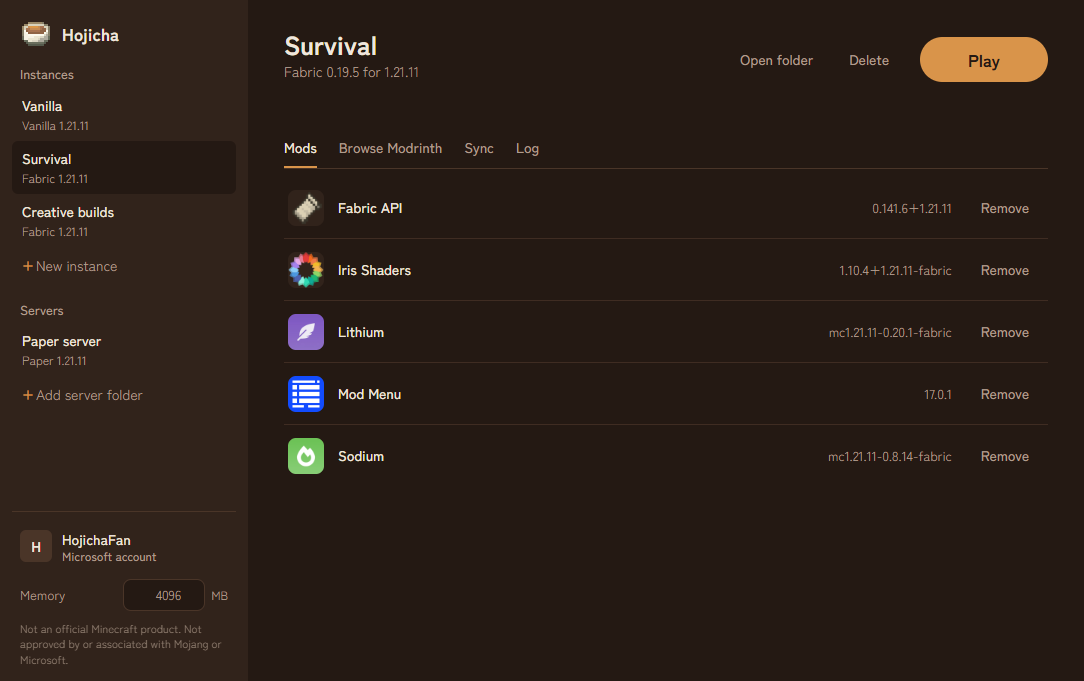
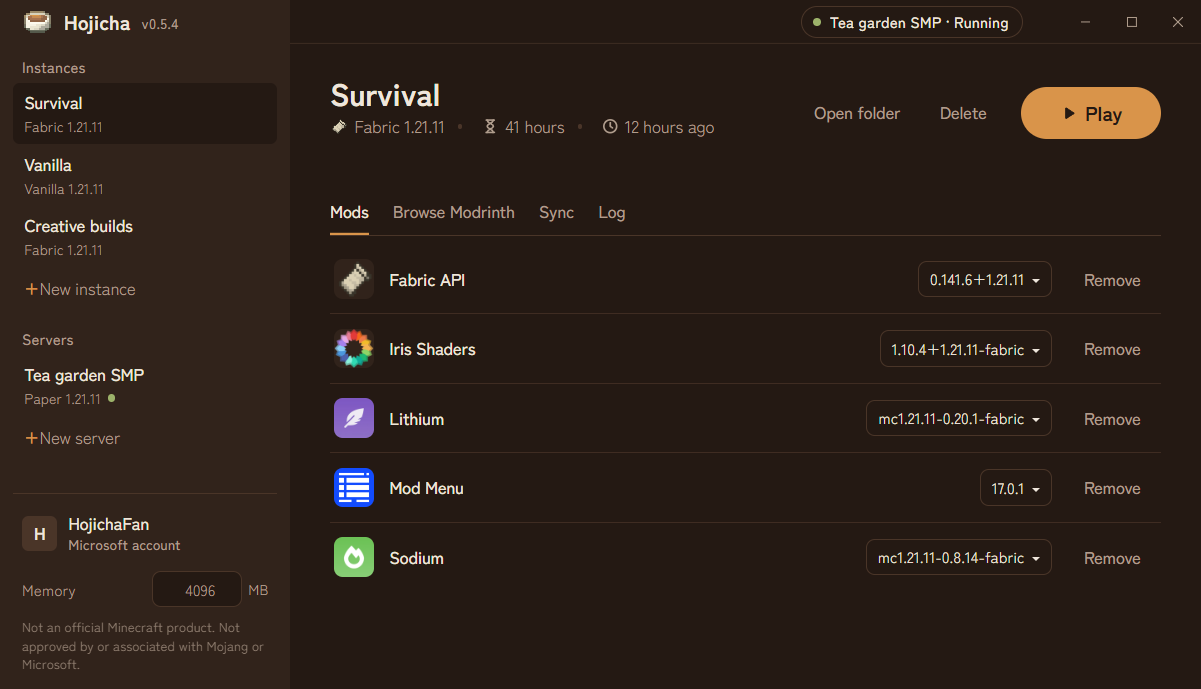
Update the README and screenshots for 0.5.4
New screenshots of the current design (rendered from the real UI with sample
data), features for servers, online play and updates, and a complete list of
the services the launcher talks to: the old privacy line no longer covered
Fabric, PaperMC, PurpurMC, playit.gg and GitHub.

diff --git a/README.md b/README.md
@@ -5,77 +5,100 @@
 <h1 align="center">Hojicha Launcher</h1>
 
 <p align="center">
-  A small, open-source launcher for Minecraft: Java Edition with separate instances,
-  built-in Modrinth downloads, instance syncing and one-click local servers.
+  A small, open-source launcher for Minecraft: Java Edition. Separate instances, Modrinth downloads,
+  instance syncing, and local servers your friends can join without port forwarding.
 </p>
 
 > **NOT AN OFFICIAL MINECRAFT PRODUCT. NOT APPROVED BY OR ASSOCIATED WITH MOJANG OR MICROSOFT.**
 
-![Hojicha Launcher showing a Fabric instance with its mods](docs/screenshot-mods.png)
+![Hojicha Launcher showing a Fabric instance with its mods, play time and last played](docs/screenshot-mods.png)
 
 ## Features
 
-- **Instances**: separate game folders, vanilla or Fabric, any release or snapshot. Hojicha downloads the
-  game, libraries, assets and the matching Java runtime from Mojang itself; game files are never redistributed.
-- **Modrinth browser**: search mods, resource packs and shaders filtered to the instance's version and
-  loader. One click installs the newest compatible version plus its required dependencies.
-- **Instance syncing**: share resource packs, shader packs, screenshots, options/keybinds and the server
-  list between instances.
-- **Local servers**: create a Paper, Purpur or Fabric server in a couple of clicks, or add an existing server
-  folder, and use **Start & Join** to start it and jump straight in. Turn on **online play** to let friends join
-  over the internet through playit.gg, without port forwarding.
-- **Microsoft accounts**: sign in with the official Microsoft device-code flow.
+- **Instances**: separate game folders, vanilla or Fabric, any release or snapshot, each showing its time played
+  and when you last played it. Hojicha downloads the game, libraries, assets and the matching Java runtime from
+  Mojang itself; game files are never redistributed.
+- **Modrinth browser**: search mods, resource packs and shaders filtered to the instance's version and loader.
+  One click installs the newest compatible version plus its required dependencies, and any installed mod can be
+  switched to another version.
+- **Instance syncing**: share resource packs, shader packs, screenshots, options/keybinds and the server list
+  between instances.
+- **Local servers**: create a Paper, Purpur or Fabric server in a couple of clicks, or add a server folder you
+  already have, and use **Start and join** to start it and jump straight in.
+- **Online play**: let friends join a local server over the internet through [playit.gg](https://playit.gg),
+  without port forwarding or changing anything on your PC or router. Public servers always check Microsoft
+  accounts and use a whitelist.
+- **Microsoft accounts**: sign in with Microsoft's official device-code flow.
+- **Updates in the launcher**: new versions download in the background and install with one click.
 
-| Browse Modrinth | Local servers | Accounts |
-| --- | --- | --- |
-| ![Modrinth browser](docs/screenshot-browse.png) | ![Local server view](docs/screenshot-server.png) | ![Accounts dialog](docs/screenshot-accounts.png) |
+| Browse Modrinth | Online play |
+| --- | --- |
+| ![Modrinth browser with install buttons](docs/screenshot-browse.png) | ![A running server with its address and whitelist](docs/screenshot-server.png) |
+| **New server** | **Accounts** |
+| ![New server dialog with Paper, Purpur and Fabric](docs/screenshot-new-server.png) | ![Accounts dialog](docs/screenshot-accounts.png) |
 
 ## Accounts and privacy
 
-- **Sign-in happens on Microsoft's website.** Hojicha shows a code; you enter it at microsoft.com/link and
-  sign in there. Hojicha never sees or stores your password.
+- **Sign-in happens on Microsoft's website.** Hojicha shows a code; you enter it at microsoft.com/link and sign in
+  there. Hojicha never sees or stores your password.
 - **Ownership is verified.** After signing in, Hojicha exchanges the Microsoft token through Xbox Live for a
   Minecraft session and checks that the account owns Minecraft: Java Edition.
 - **Tokens stay on your PC.** They are stored in `config\accounts.json` in the launcher folder, encrypted with
-  Windows' user-level encryption (DPAPI via Electron `safeStorage`). Nothing is sent anywhere except Microsoft,
-  Xbox Live, Mojang and Modrinth.
-- **Offline accounts require a verified owner.** Offline accounts (for local and offline-mode servers) can only
-  be added and used while a Microsoft account that owns the game is signed in.
+  Windows' user-level encryption (DPAPI via Electron `safeStorage`).
+- **Offline accounts require a verified owner.** Offline accounts can only be added and used while a Microsoft
+  account that owns the game is signed in. They can join offline-mode servers on your own PC, never a server that's
+  open to the internet: online play always runs the server in online mode.
+- **No analytics, no telemetry.** Nothing is ever sent to the launcher's developer. Hojicha only talks to the
+  services it needs, and only when it needs them:
+
+| Service | What for |
+| --- | --- |
+| Microsoft, Xbox Live, Minecraft services | Signing in, checking ownership, your skin |
+| Mojang | Game versions, libraries, assets and Java runtimes |
+| Modrinth | Searching and downloading mods, resource packs and shaders |
+| Fabric | Fabric loader versions, and Fabric servers |
+| PaperMC, PurpurMC | The server jar, only when you create a Paper or Purpur server |
+| playit.gg | Only if you set up online play: linking your account, and relaying players to your server |
+| GitHub | Checking for launcher updates and downloading them, and playit's agent program |
 
 ## Local servers
 
 **New server** downloads the newest build of Paper, Purpur or Fabric for the Minecraft version you pick into
-`servers\<name>` in the launcher folder, once you agree to the Minecraft EULA. **Add folder**, in the same dialog,
-uses a server you already have, wherever it is.
+`servers\<name>` in the launcher folder, once you agree to the [Minecraft EULA](https://aka.ms/MinecraftEULA).
+**Add folder**, in the same dialog, uses a server you already have, wherever it is.
 
-Hojicha starts a local server with the Java version that matches it, listening on `127.0.0.1` only, so nobody
-else can connect, in offline mode so offline accounts can join. It writes those settings into `server.properties`,
+Hojicha starts a local server with the Java version that matches it, listening on `127.0.0.1` only, so nobody else
+can connect, in offline mode so your offline accounts can join. It writes those settings into `server.properties`,
 records your original values and puts them back when the server stops (or the next time it opens, if it was closed
 while the server ran), so your own start script keeps working. The selected account is made operator when the
 server starts.
 
 ### Online play
 
-The **Online play** tab lets friends join over the internet without port forwarding, through
-[playit.gg](https://playit.gg). **Set up online play** links a free playit.gg account once: you approve Hojicha
-Launcher in your browser and the launcher keeps the key, encrypted, in `config\playit.json`. With
-**Joinable online** on, starting the server also starts playit's own agent (the signed `playitd.exe`, pinned and
-checked by SHA-256, kept in `meta\playit`) as an ordinary program next to it: no service, no install, no admin
-rights. It stops with the server. The first start creates a Minecraft tunnel in your playit.gg account.
+The **Online play** tab on a server lets friends join over the internet, through [playit.gg](https://playit.gg):
 
-While it's public the server runs in **online mode with an enforced whitelist**: only Microsoft accounts on the
-whitelist get in, so offline accounts can't join that server. Your selected account is always whitelisted.
+1. **Set up online play** links a free playit.gg account once. You approve Hojicha Launcher in your browser, and the
+   launcher keeps the key, encrypted, in `config\playit.json`. Each install links its own account; nothing is shared
+   between installs.
+2. Switch on **Joinable online** and start the server. Hojicha starts playit's own agent (the signed `playitd.exe`,
+   pinned to one version and checked by SHA-256, kept in `meta\playit`) as an ordinary program next to the server:
+   no service, no install, no admin rights. It stops with the server. The first start creates a Minecraft tunnel in
+   your playit.gg account, and the tab shows the address to share.
+3. Add your friends' Minecraft names to the **whitelist**. Your selected account is always on it.
 
-To give friends your own address, enter a domain like `mc.example.com` and add the SRV record the tab shows at
-your DNS provider. Friends then type just `mc.example.com`.
+While a server is public it runs in **online mode with an enforced whitelist**, so only whitelisted Microsoft
+accounts get in. Players keep a separate save per mode, because Minecraft stores player data by account ID: someone
+who played in offline mode starts from their online-mode save when the server is public.
+
+To give friends a short address of your own, enter a domain like `mc.example.com` and add the SRV record the tab
+shows at your DNS provider. Friends then type just `mc.example.com`.
 
 ## Install
 
-Download the installer from the [Releases](../../releases) page, or build it yourself (below). The installer is
-not code-signed yet, so Windows SmartScreen may warn on first run (**More info → Run anyway**). You choose who it's
-for (just you, or everyone on the PC) and where it goes. It always creates its own `Hojicha Launcher` folder inside
-the folder you pick (default `%LOCALAPPDATA%\Programs\Hojicha Launcher`), and adds desktop and Start menu
-shortcuts.
+Download the installer from the [Releases](../../releases) page, or build it yourself (below). The installer is not
+code-signed yet, so Windows SmartScreen may warn on first run (**More info → Run anyway**). It always creates its own
+`Hojicha Launcher` folder inside the folder you pick (default `%LOCALAPPDATA%\Programs\Hojicha Launcher`), and adds
+desktop and Start menu shortcuts. After that, the launcher updates itself.
 
 That folder holds the launcher and everything it stores:
 
@@ -84,20 +107,18 @@ app\         the launcher itself
 instances\   one folder per instance (the game folder is instances\<name>\minecraft)
 servers\     servers made with New server
 synced\      resource packs, shader packs, screenshots and options shared between instances
-meta\        Minecraft versions, libraries, assets and Java, shared by all instances
-config\      settings, accounts and servers
+meta\        Minecraft versions, libraries, assets, Java and playit's agent, shared by all instances
+config\      settings, accounts, servers and the playit.gg link
 uninstall.exe, and a Hojicha Launcher shortcut
 ```
 
-Instance folders are named after the instance, like `instances\Fabric 1.21.11`.
-
-Nothing is stored in AppData. The folder has to be writable, so an install for everyone in Program Files won't
-start; install it just for you, or in another folder. Data from 0.2.x and older (in
-`%APPDATA%\Hojicha Launcher\data`) is moved over on first start.
+Nothing is stored in AppData. The folder has to be writable, so install it just for you (an install for everyone
+in Program Files won't start). Data from 0.2.x and older (in `%APPDATA%\Hojicha Launcher\data`) is moved over on
+first start.
 
 To uninstall, run `uninstall.exe` in the launcher folder, or use **Settings → Apps**. After asking, it deletes the
-whole launcher folder, **including your instances and worlds**, so copy any worlds you want to keep first. Updating
-(running a newer installer) only replaces `app\` and keeps everything else.
+whole launcher folder, **including your instances, servers and worlds**, so copy anything you want to keep first.
+Updating only replaces `app\` and keeps everything else.
 
 ## Building from source
 
@@ -106,7 +127,7 @@ Requires [Node.js](https://nodejs.org/) 22 or newer.
 ```
 npm install
 npm start          # run the launcher (uses the installed launcher's folder, or dev-home\ when not installed)
-npm run dist       # build dist/Hojicha Launcher Setup <version>.exe
+npm run dist       # build dist\Hojicha-Launcher-Setup-<version>.exe
 npm run icon       # regenerate build/icon.png, icon.ico and installerSidebar.bmp from the 16x16 build/logo.png
 ```
 
@@ -117,11 +138,13 @@ If `npm start` reports that Electron failed to install, your npm skipped install
 ### Releasing an update
 
 Installed launchers check this repo's GitHub releases on start and every 4 hours. A newer version downloads in the
-background, then the title bar shows **Restart to update** (otherwise it installs when the launcher closes). To ship one:
+background, then the title bar shows **Restart to update** (otherwise it installs when the launcher closes). To ship
+one:
 
 1. Raise `version` in `package.json`.
 2. `npm run dist`, then create a GitHub release tagged `v<version>` and attach these three files from `dist\`:
-   `Hojicha-Launcher-Setup-<version>.exe`, its `.blockmap`, and `latest.yml`.
+   `Hojicha-Launcher-Setup-<version>.exe`, its `.blockmap`, and `latest.yml`. Don't mark it as a pre-release:
+   the updater only follows the latest full release.
 
 Or let electron-builder upload them: with a GitHub token in `GH_TOKEN`, `npm run release` creates a draft release
 with the files attached; publish the draft to send the update out.
@@ -132,19 +155,21 @@ The installer's tweaks (own sub-folder, uninstall that only deletes the launcher
 ### Project layout
 
 ```
-src/main.js             Electron main process, IPC, game process handling
-src/preload.js          API exposed to the UI
-src/renderer/           UI (HTML/CSS/JS)
-src/core/auth.js        Microsoft -> Xbox Live -> Minecraft sign-in and ownership check
-src/core/accounts.js    account storage, token refresh, offline-account rules
-src/core/minecraft.js   version JSONs, Fabric, downloads, launch arguments
-src/core/java.js        Mojang Java runtimes
-src/core/modrinth.js    Modrinth search/install/dependencies
-src/core/sync.js        instance syncing
-src/core/servers.js     local servers
-src/core/instances.js   instance storage
-src/core/storage.js     where data lives, moving data from older versions
-build/                  pixel-art logo (logo.png, 16x16) and the script that turns it into app icons
+src/main.js               Electron main process, IPC, game and server process handling, updates
+src/preload.js            API exposed to the UI
+src/renderer/             UI (HTML/CSS/JS), fonts and icons
+src/core/auth.js          Microsoft -> Xbox Live -> Minecraft sign-in and ownership check
+src/core/accounts.js      account storage, token refresh, offline-account rules
+src/core/minecraft.js     version JSONs, Fabric, downloads, launch arguments
+src/core/java.js          Mojang Java runtimes
+src/core/modrinth.js      Modrinth search/install/dependencies/versions
+src/core/sync.js          instance syncing
+src/core/instances.js     instance storage, play time
+src/core/servers.js       local servers: creating, starting, server.properties, whitelist
+src/core/serverTypes.js   Paper, Purpur and Fabric server downloads
+src/core/playit.js        online play: playit.gg linking, agent and tunnel
+src/core/storage.js       where data lives, moving data from older versions
+build/                    pixel-art logo (logo.png, 16x16), icons and installer scripts
 ```
 
 ## Known limitations
@@ -152,14 +177,16 @@ build/                  pixel-art logo (logo.png, 16x16) and the script that tur
 - Windows only for now.
 - No Forge, NeoForge or Quilt yet.
 - Synced `options.txt` is shared as-is, so syncing it between very different versions can mix up settings.
+- A custom domain points at one tunnel: the server on port 25565.
 
 ## Contact
 
-Hojicha Launcher is made and maintained by Quinten, who is responsible for it. For questions, bugs or
-requests, please [open an issue](../../issues).
+Hojicha Launcher is made and maintained by Quinten, who is responsible for it. For questions, bugs or requests,
+please [open an issue](../../issues).
 
 ## License
 
 [MIT](LICENSE). The bundled typeface, Zen Kaku Gothic New, is licensed under the
-[SIL Open Font License 1.1](src/renderer/fonts/OFL.txt). Minecraft is a trademark of Mojang Synergies AB. Hojicha Launcher is not an official Minecraft
-product and is not approved by or associated with Mojang or Microsoft.
+[SIL Open Font License 1.1](src/renderer/fonts/OFL.txt). playit.gg's agent is downloaded from its official GitHub
+releases and isn't part of this repository. Minecraft is a trademark of Mojang Synergies AB. Hojicha Launcher is not
+an official Minecraft product and is not approved by or associated with Mojang or Microsoft.
